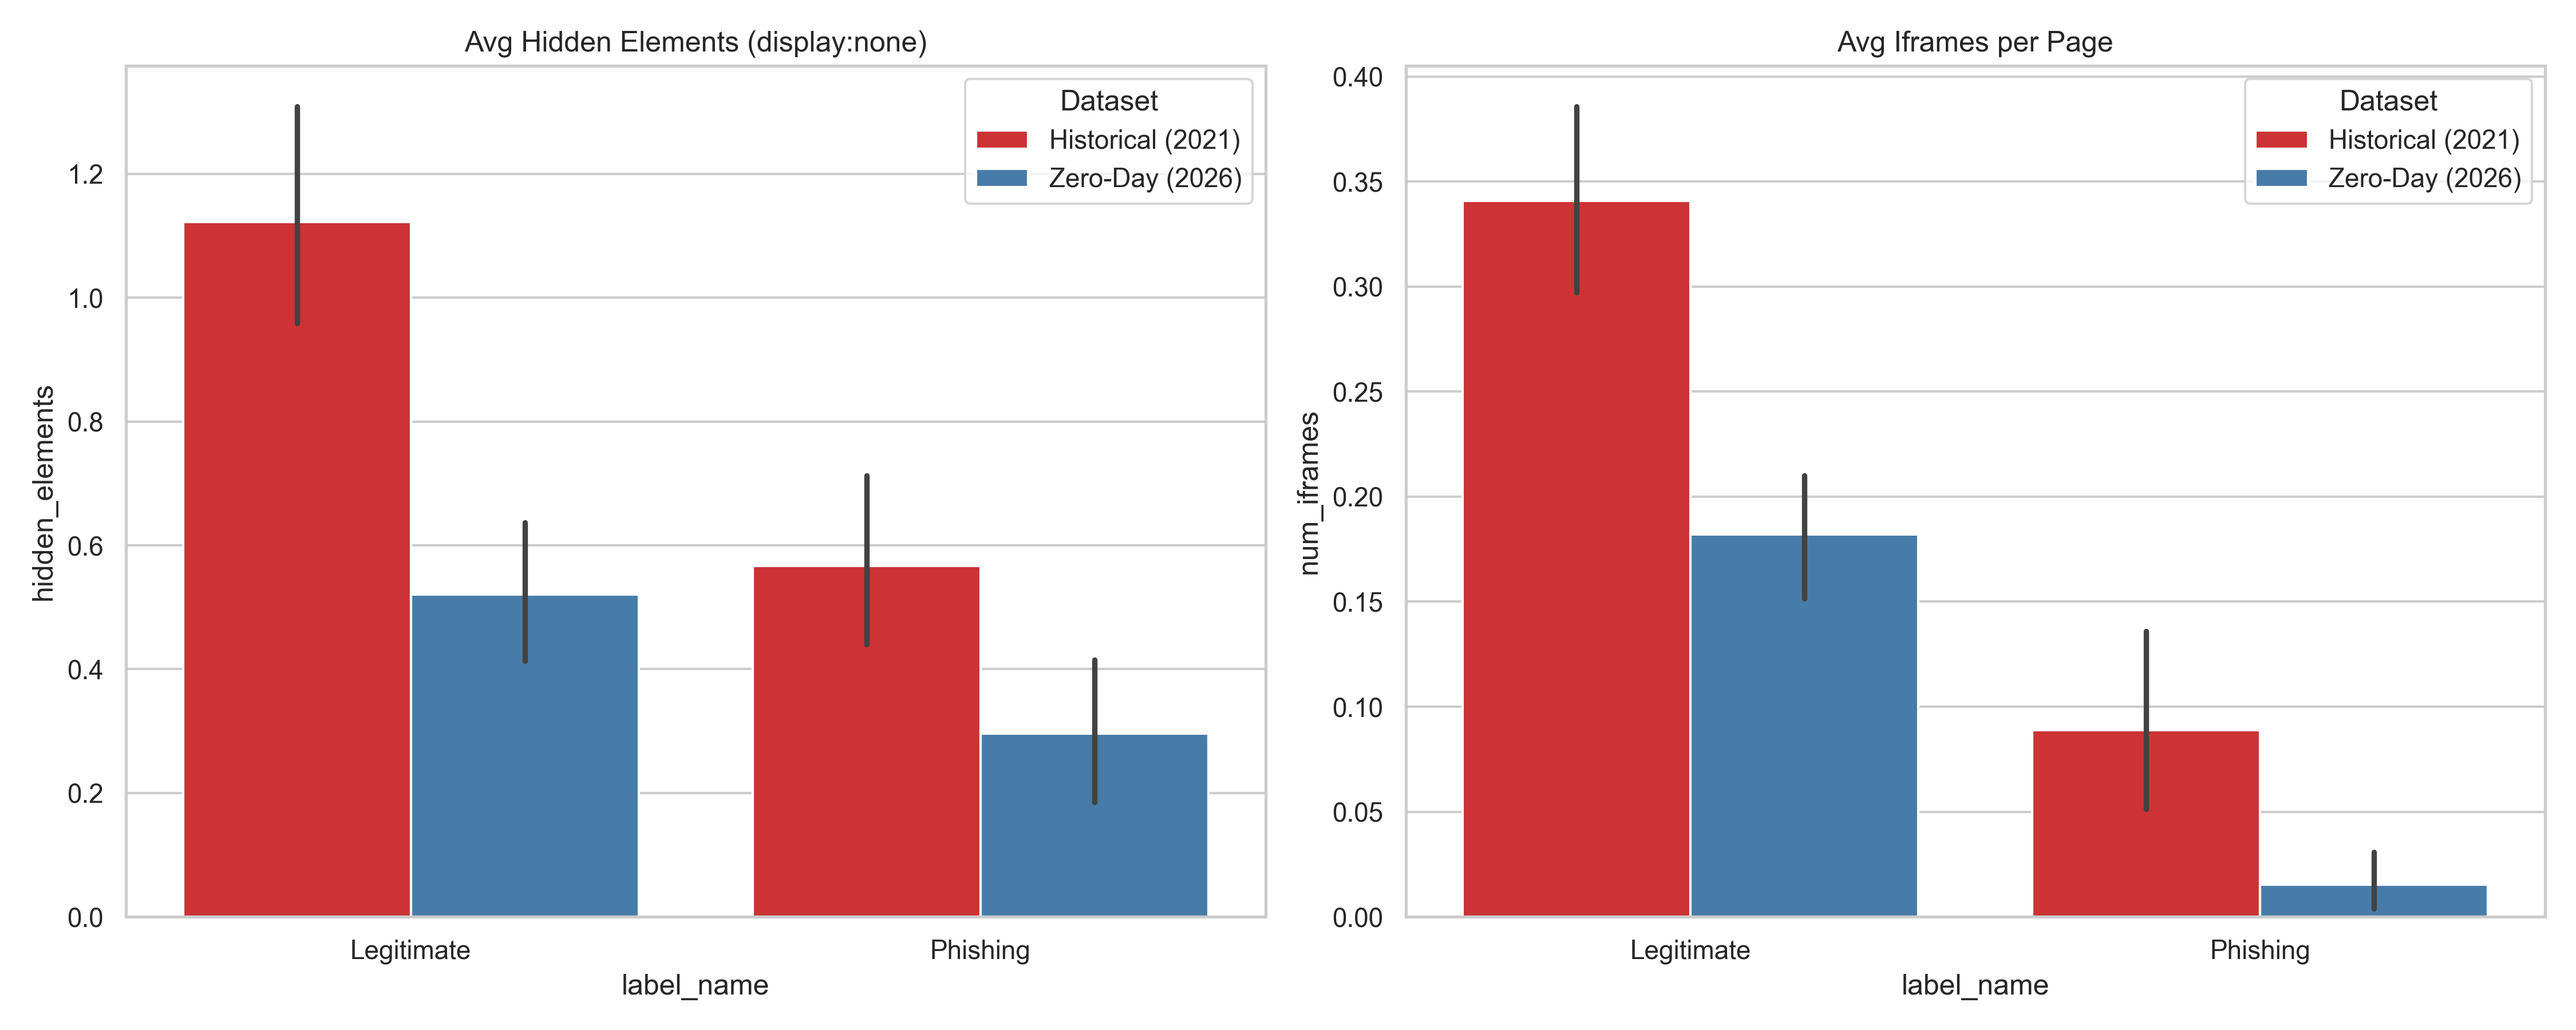
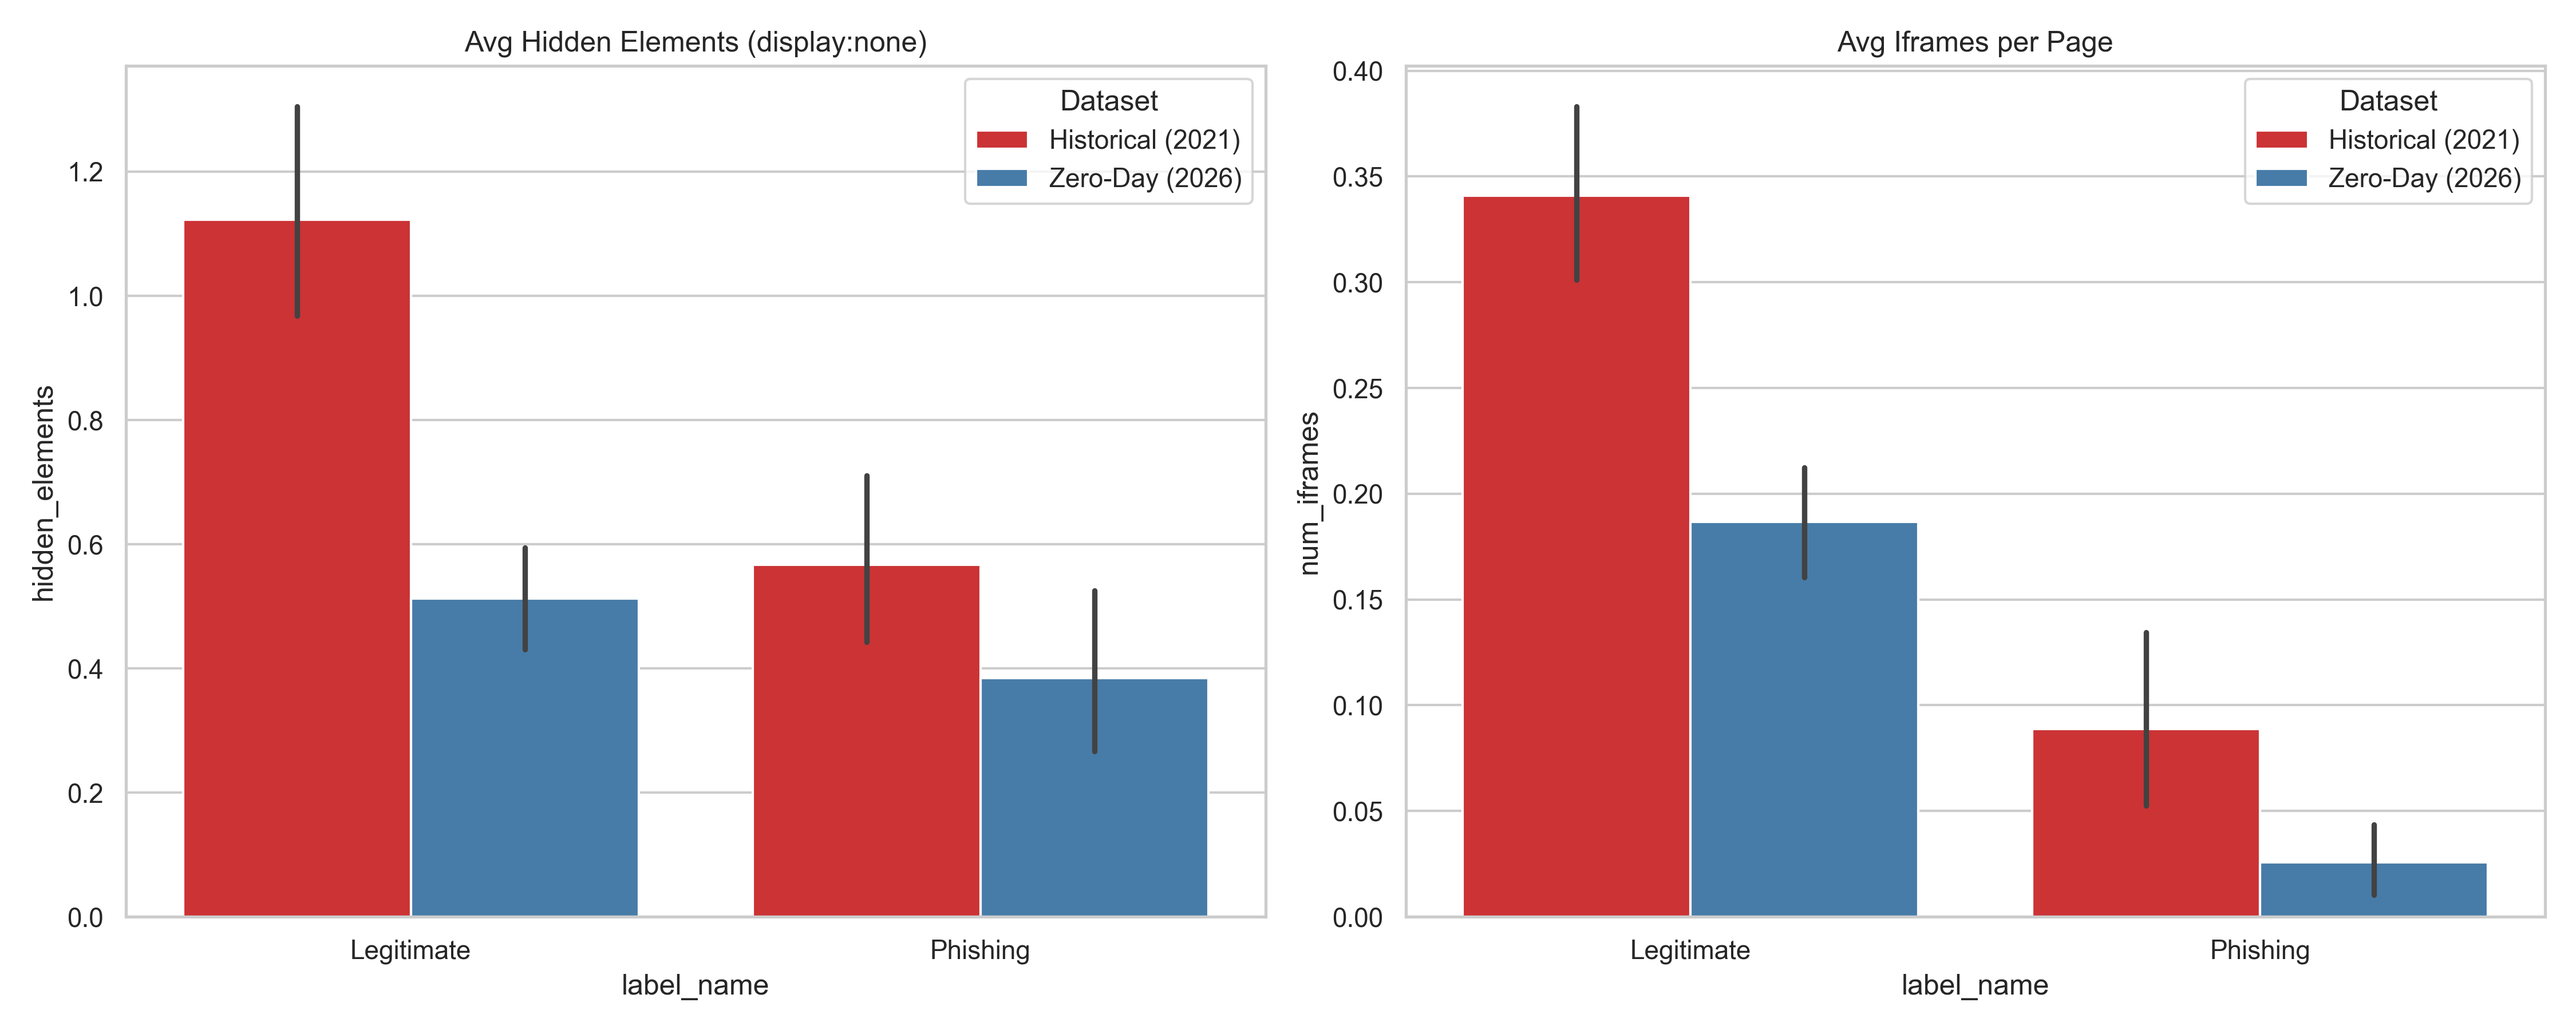
Append 1,500 new OOD websites and update EDA plots

diff --git a/src/data/crawler.py b/src/data/crawler.py
@@ -15,8 +15,8 @@ HEADERS = {
     "User-Agent": "Mozilla/5.0 (Windows NT 10.0; Win64; x64) AppleWebKit/537.36 (KHTML, like Gecko) Chrome/120.0.0.0 Safari/537.36"
 }
 
-def get_legit_urls(limit: int) -> list:
-    """Fetch legitimate URLs from the Tranco Top 1M list."""
+def get_legit_urls(limit: int, existing_urls: set) -> list:
+    """Fetch legitimate URLs from the Tranco Top 1M list, skipping existing."""
     logger.info("Downloading Tranco Top 1M list for legitimate URLs...")
     url = "https://tranco-list.eu/top-1m.csv.zip"
     try:
@@ -28,16 +28,22 @@ def get_legit_urls(limit: int) -> list:
             with z.open(csv_filename) as f:
                 df = pd.read_csv(f, names=['rank', 'domain'])
                 
-        # Prepend https:// to domains
-        urls = ["https://" + str(d) for d in df['domain'].head(limit).tolist()]
-        logger.info(f"Successfully loaded {len(urls)} legitimate URLs from Tranco.")
+        urls = []
+        for d in df['domain'].tolist():
+            formatted_url = "https://" + str(d)
+            if formatted_url not in existing_urls:
+                urls.append(formatted_url)
+            if len(urls) >= limit:
+                break
+                
+        logger.info(f"Successfully loaded {len(urls)} *new* legitimate URLs from Tranco.")
         return urls
     except Exception as e:
         logger.error(f"Failed to fetch Tranco list: {e}")
         return []
 
-def get_phishing_urls(limit: int, phishtank_key: str = None) -> list:
-    """Fetch phishing URLs from PhishTank or fallback to OpenPhish."""
+def get_phishing_urls(limit: int, existing_urls: set, phishtank_key: str = None) -> list:
+    """Fetch phishing URLs from PhishTank or fallback to OpenPhish, skipping existing."""
     urls = []
     
     # Try PhishTank first
@@ -52,13 +58,16 @@ def get_phishing_urls(limit: int, phishtank_key: str = None) -> list:
         data = response.json()
         for item in data:
             if item.get('online') == 'yes' and item.get('verified') == 'yes':
-                urls.append(item.get('url'))
+                url = item.get('url')
+                if url not in existing_urls:
+                    urls.append(url)
                 if len(urls) >= limit:
                     break
-        logger.info(f"Successfully loaded {len(urls)} phishing URLs from PhishTank.")
-        return urls
+        if urls:
+            logger.info(f"Successfully loaded {len(urls)} *new* phishing URLs from PhishTank.")
+            return urls
     except Exception as e:
-        logger.warning(f"Failed to fetch from PhishTank (Rate limit or missing key): {e}")
+        logger.warning(f"Failed to fetch from PhishTank: {e}")
         logger.info("Falling back to OpenPhish free feed...")
         
     # Fallback to OpenPhish
@@ -67,8 +76,15 @@ def get_phishing_urls(limit: int, phishtank_key: str = None) -> list:
         response = requests.get(op_url, headers=HEADERS, timeout=15)
         response.raise_for_status()
         lines = response.text.strip().split('\n')
-        urls = [line.strip() for line in lines if line.strip()][:limit]
-        logger.info(f"Successfully loaded {len(urls)} phishing URLs from OpenPhish.")
+        
+        for line in lines:
+            url = line.strip()
+            if url and url not in existing_urls:
+                urls.append(url)
+            if len(urls) >= limit:
+                break
+                
+        logger.info(f"Successfully loaded {len(urls)} *new* phishing URLs from OpenPhish.")
         return urls
     except Exception as e:
         logger.error(f"Failed to fetch from OpenPhish: {e}")
@@ -90,15 +106,41 @@ def fetch_html(url: str, timeout: int = 5) -> str:
         # Silently fail for timeout or connection errors
         return None
 
-def crawl_dataset(num_legit: int, num_phish: int, output_dir: str, phishtank_key: str = None, timeout: int = 5):
+def crawl_dataset(num_legit: int, num_phish: int, output_dir: str, phishtank_key: str = None, timeout: int = 5, append: bool = False):
     """Crawl URLs and their HTML, saving successfully matched pairs to excel files."""
-    legit_urls = get_legit_urls(num_legit)
-    phishing_urls = get_phishing_urls(num_phish, phishtank_key)
+    
+    out_path = Path(output_dir)
+    out_path.mkdir(parents=True, exist_ok=True)
+    url_file = out_path / "OOD_URL.xlsx"
+    html_file = out_path / "OOD_html.xlsx"
+    
+    existing_urls = set()
+    df_existing_url = pd.DataFrame()
+    df_existing_html = pd.DataFrame()
+    
+    if append and url_file.exists() and html_file.exists():
+        logger.info("Loading existing dataset for appending and deduplication...")
+        try:
+            df_existing_url = pd.read_excel(url_file, engine='calamine')
+            df_existing_html = pd.read_excel(html_file, engine='calamine')
+        except:
+            df_existing_url = pd.read_excel(url_file)
+            df_existing_html = pd.read_excel(html_file)
+            
+        existing_urls = set(df_existing_url['Data'].tolist())
+        logger.info(f"Found {len(existing_urls)} existing URLs.")
+
+    legit_urls = get_legit_urls(num_legit, existing_urls)
+    phishing_urls = get_phishing_urls(num_phish, existing_urls, phishtank_key)
     
     # Combine and label
     targets = [('ham', url) for url in legit_urls] + [('spam', url) for url in phishing_urls]
     
-    logger.info(f"Starting HTML extraction for {len(targets)} total URLs with a {timeout}s timeout...")
+    if not targets:
+        logger.info("No new URLs to fetch. Exiting.")
+        return
+
+    logger.info(f"Starting HTML extraction for {len(targets)} total NEW URLs with a {timeout}s timeout...")
     
     successful_urls = []
     successful_html = []
@@ -114,23 +156,34 @@ def crawl_dataset(num_legit: int, num_phish: int, output_dir: str, phishtank_key
             successful_urls.append({'Category': category, 'Data': url})
             successful_html.append({'Category': category, 'Data': clean_html})
             
-    logger.info(f"Successfully fetched {len(successful_urls)}/{len(targets)} websites.")
+    logger.info(f"Successfully fetched {len(successful_urls)}/{len(targets)} new websites.")
     
-    # Export to Excel format exactly matching existing dataset
-    out_path = Path(output_dir)
-    out_path.mkdir(parents=True, exist_ok=True)
+    df_new_url = pd.DataFrame(successful_urls)
+    df_new_html = pd.DataFrame(successful_html)
     
-    df_url = pd.DataFrame(successful_urls)
-    df_html = pd.DataFrame(successful_html)
+    if append and not df_existing_url.empty:
+        df_url = pd.concat([df_existing_url, df_new_url], ignore_index=True)
+        df_html = pd.concat([df_existing_html, df_new_html], ignore_index=True)
+    else:
+        df_url = df_new_url
+        df_html = df_new_html
+        
+    # Final Deduplication and Cleaning Check
+    logger.info("Running final deduplication check...")
+    df_combined = df_url.copy()
+    df_combined['html'] = df_html['Data']
+    df_combined = df_combined.drop_duplicates(subset=['Data']) # drop duplicate URLs
     
-    url_file = out_path / "OOD_URL.xlsx"
-    html_file = out_path / "OOD_html.xlsx"
+    df_final_url = df_combined[['Category', 'Data']].copy()
+    df_final_html = pd.DataFrame({'Category': df_combined['Category'], 'Data': df_combined['html']})
+    
+    logger.info(f"Final dataset size: {len(df_final_url)} total samples.")
     
     logger.info(f"Saving {url_file}...")
-    df_url.to_excel(url_file, index=False)
+    df_final_url.to_excel(url_file, index=False)
     
     logger.info(f"Saving {html_file}...")
-    df_html.to_excel(html_file, index=False)
+    df_final_html.to_excel(html_file, index=False)
     
     logger.info("Data crawling and export complete!")
 
@@ -141,6 +194,7 @@ if __name__ == "__main__":
     parser.add_argument("--timeout", type=int, default=5, help="Seconds to wait before skipping a website")
     parser.add_argument("--phishtank_key", type=str, default=None, help="Optional API key for PhishTank")
     parser.add_argument("--output", type=str, default="data/raw", help="Output directory")
+    parser.add_argument("--append", action="store_true", help="Append to existing dataset and avoid duplicates")
     
     args = parser.parse_args()
-    crawl_dataset(args.legit, args.phish, args.output, args.phishtank_key, args.timeout)
+    crawl_dataset(args.legit, args.phish, args.output, args.phishtank_key, args.timeout, args.append)
